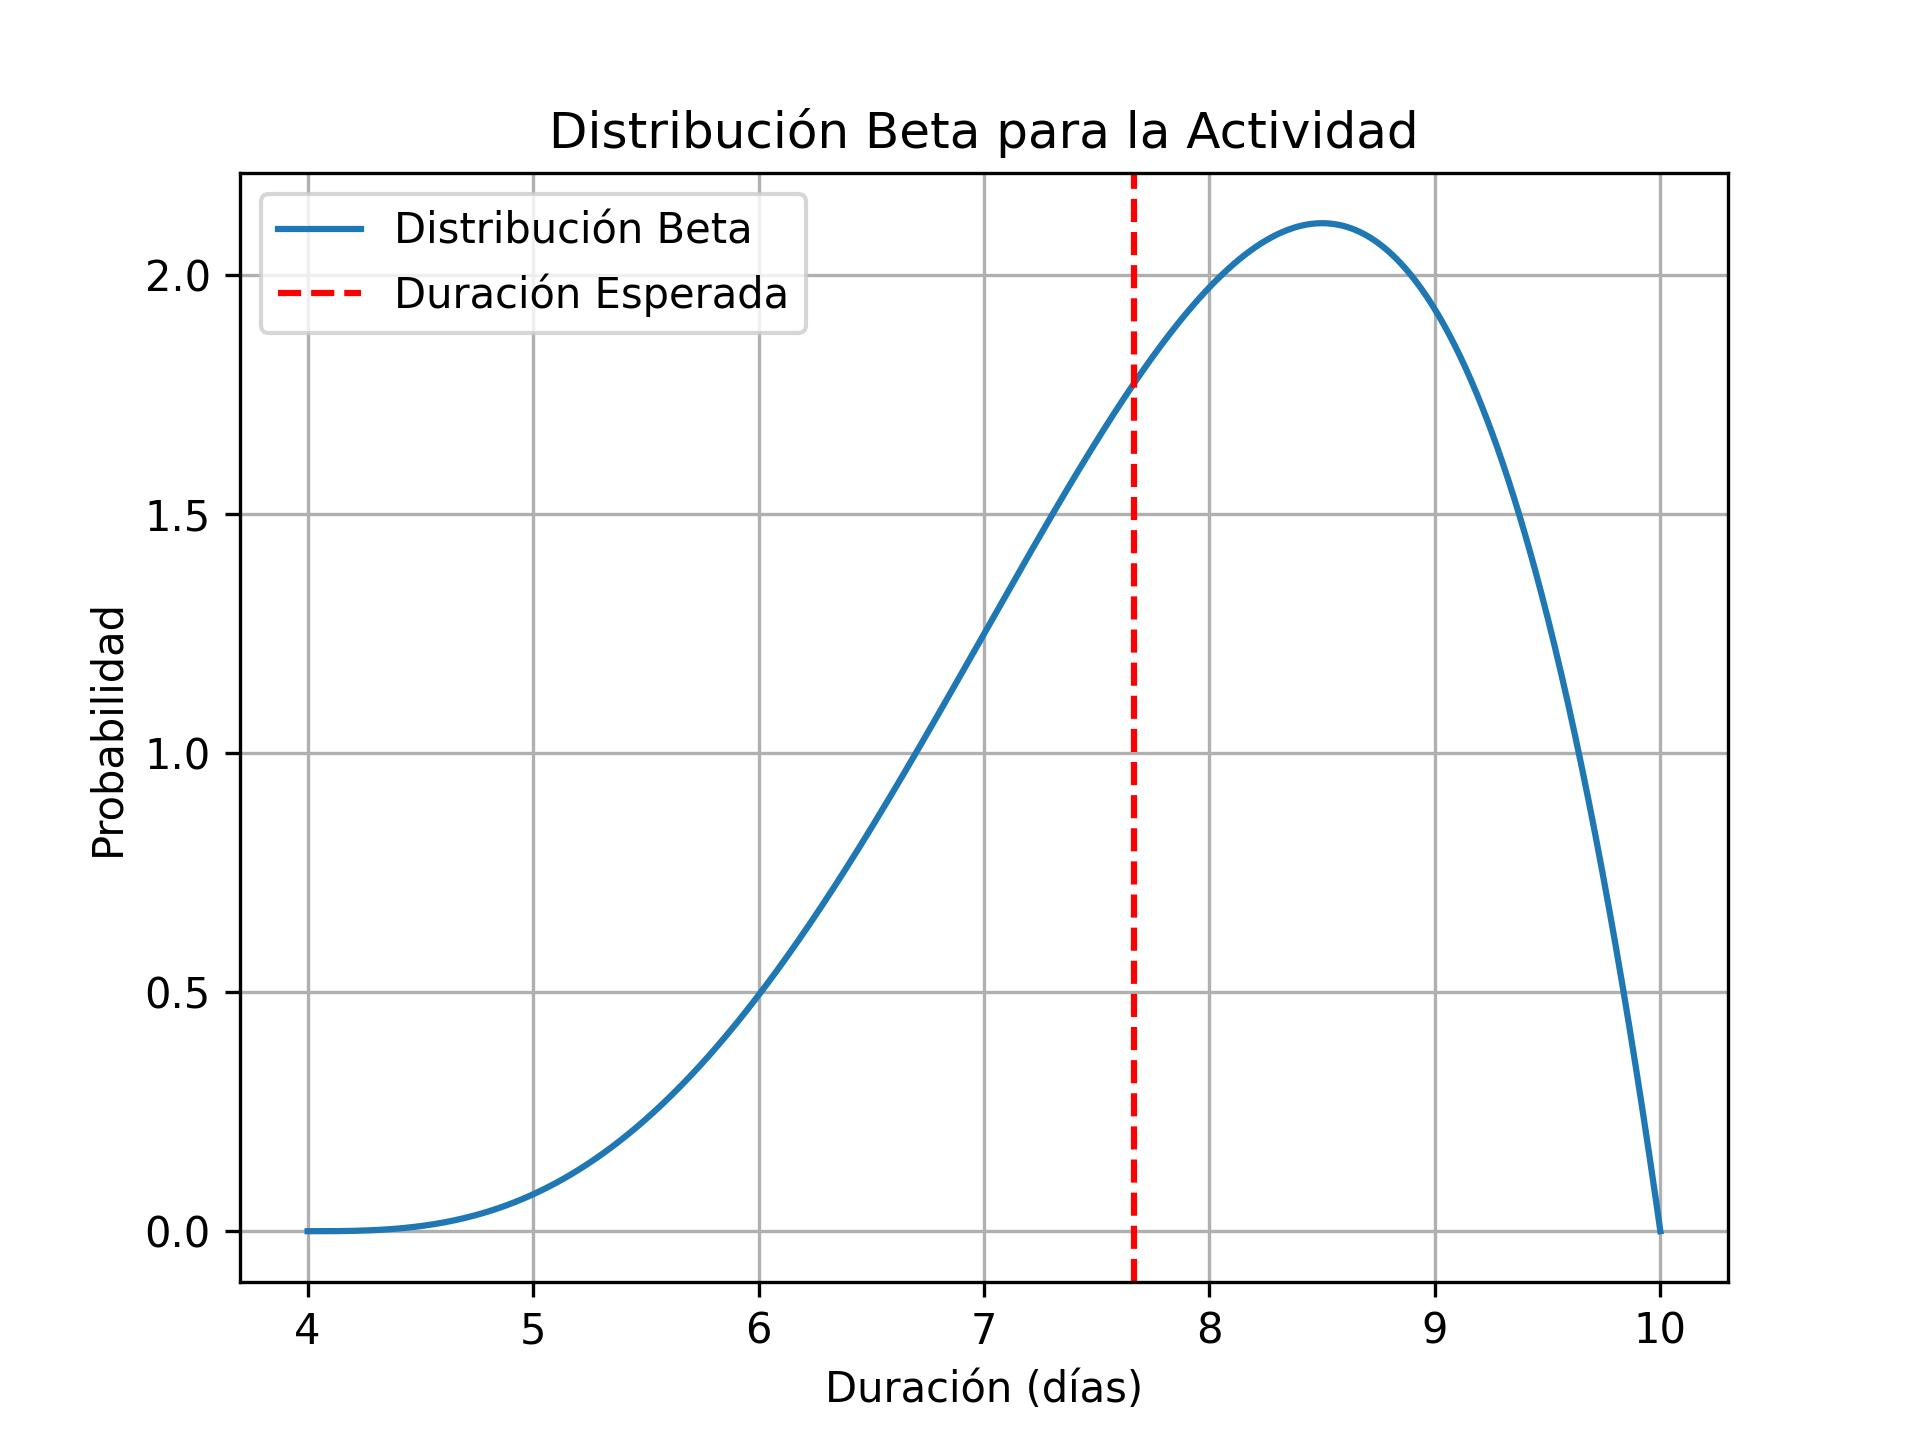
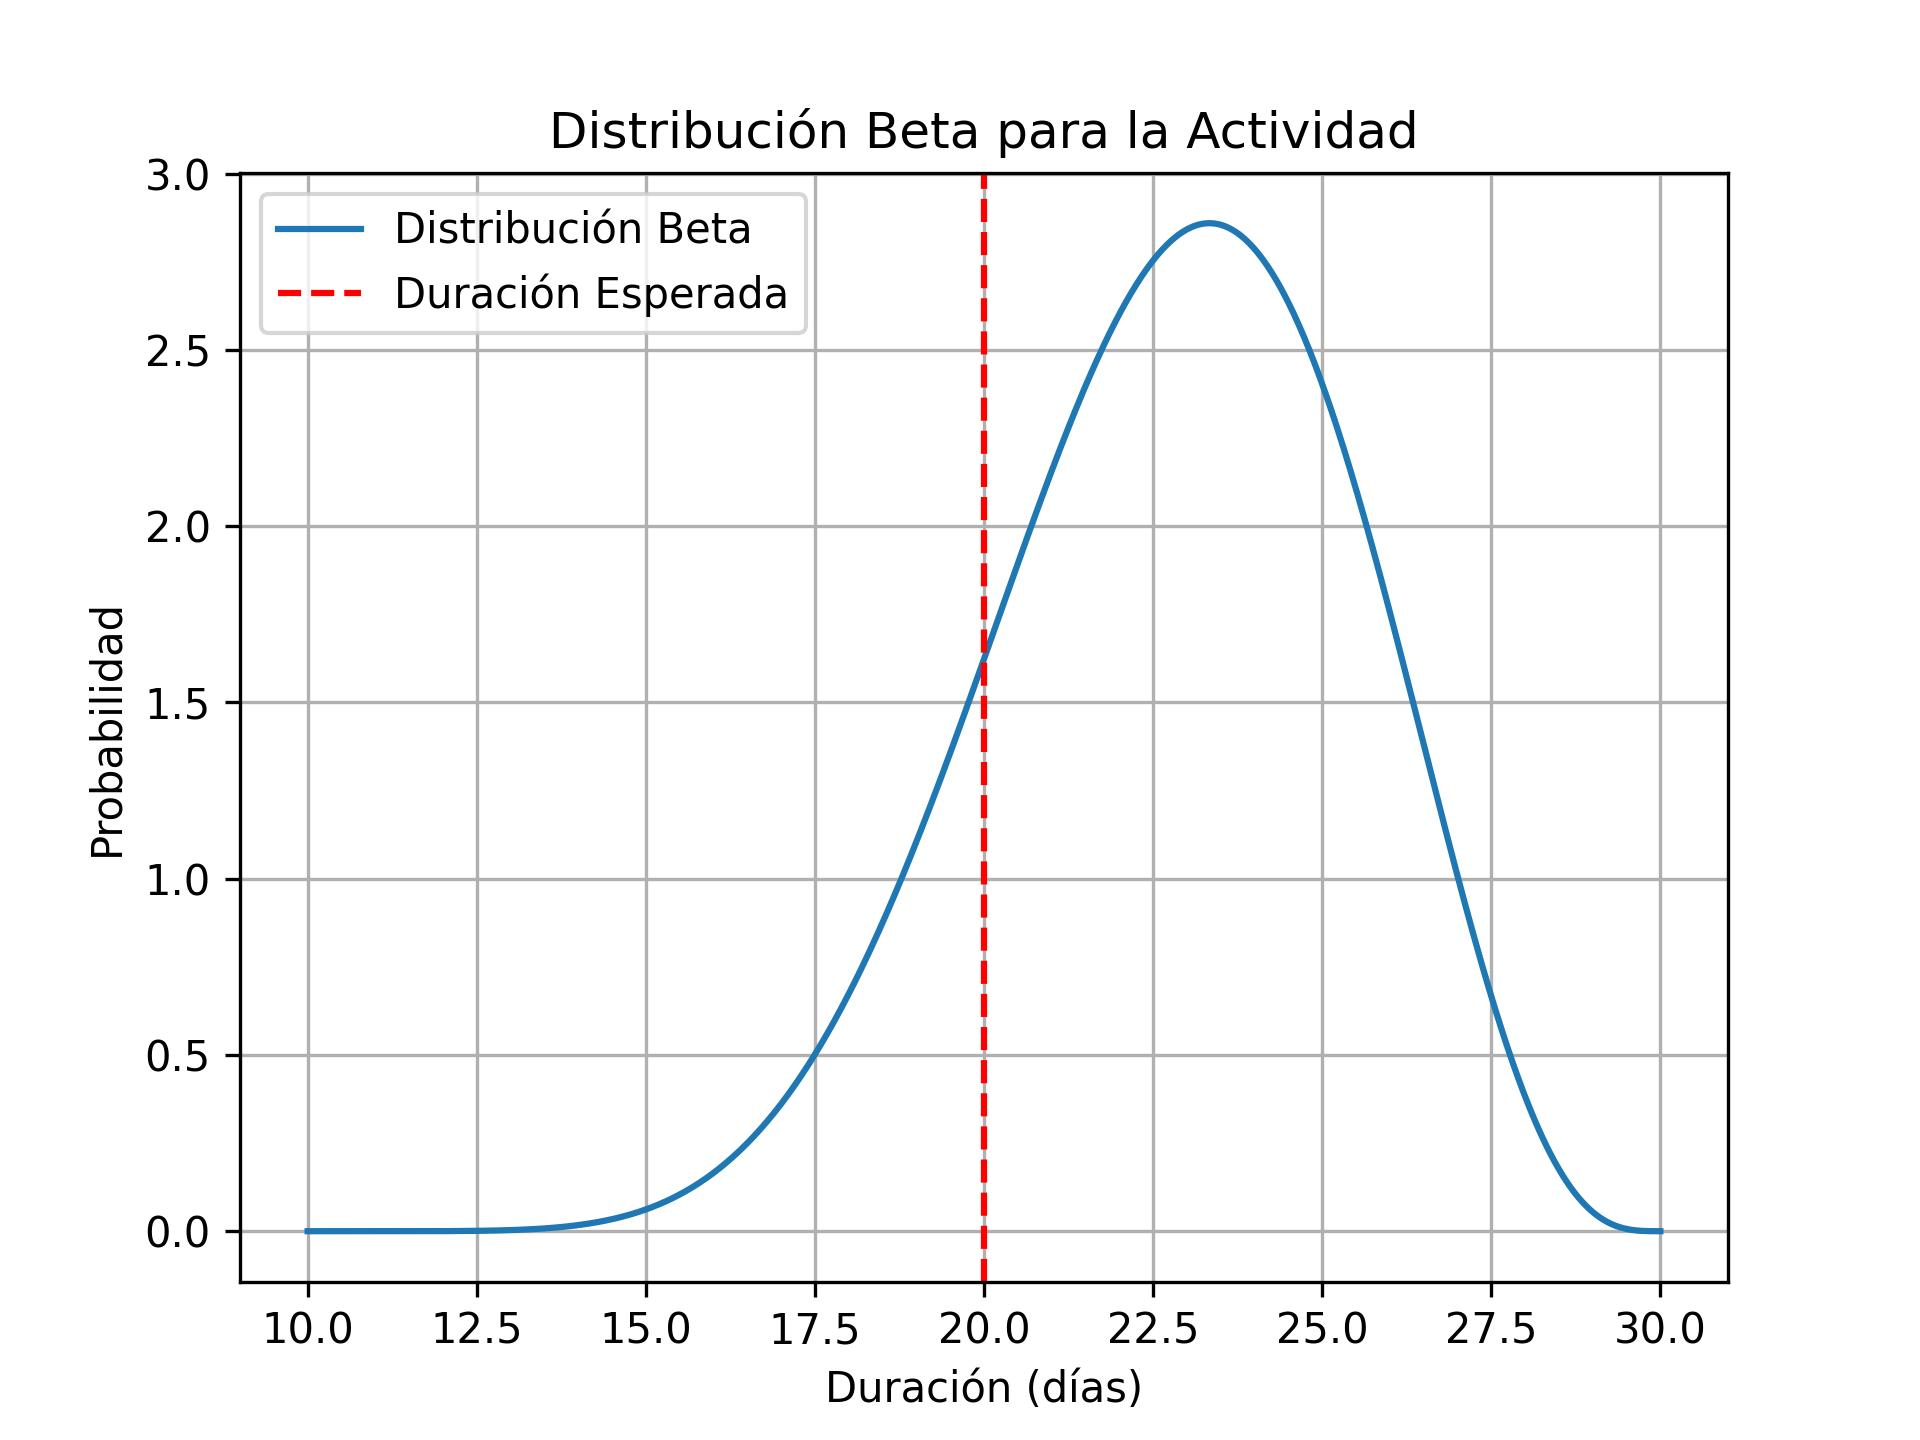
implementacion de logica

diff --git a/simulador/interfaz/gui_app.py b/simulador/interfaz/gui_app.py
@@ -2,7 +2,6 @@ import tkinter as tk
 from PIL import Image, ImageTk 
 from interfaz.grafico import generar_grafico_pert
 from tkinter import ttk
-#from proyecto import proyecto
 
 def abrir_ventana_ayuda():
     ventana_ayuda = tk.Toplevel()
@@ -108,14 +107,26 @@ class Frame(tk.Frame):
             self.boton_agregar_actividades.config(state=tk.NORMAL)
         else:
             self.boton_agregar_actividades.config(state=tk.DISABLED)
-   # proyecto()
 
-
+def almacenar_actividad(datoActividades, actividad, durOpt, durProb, durPes,root):
+        # Llamar a la función para generar el gráfico y obtener los valores
+        esperada, varianza, desvEstandar = generar_grafico_pert(durOpt, durProb, durPes)
+        datoActividades[actividad] = {
+        'duracion_optimista': durOpt,
+        'duracion_probable': durProb,
+        'duracion_pesimista': durPes,
+        'pert':esperada,
+        'varianza':varianza,
+        'desvEstandar':desvEstandar
+    }
+        ventana3(root,datoActividades,actividad)
+        
 def agregar_actividades(frame):
     frame.root.destroy()
     
-    #print(frame.nomProyecto.get())
-    #datoActividades = {}
+    datoActividades = {}
+    actividad=0
+    actividad+=1
 
     root = tk.Tk()
     root.title('Registro de Actividades')
@@ -155,74 +166,69 @@ def agregar_actividades(frame):
     button_frame2 = tk.Frame(root, bg="white")
     button_frame2.pack(side='top', pady=20)
 
-    boton_agregar = tk.Button(button_frame2, text='AGREGAR', bg='#4e4bc9', fg='white', font=("Helvetica", 14),command=lambda: ventana3(root))
+    boton_agregar = tk.Button(button_frame2, text='AGREGAR', bg='#4e4bc9', fg='white', font=("Helvetica", 14),
+                              #command=lambda: ventana3(root)
+                               command=lambda:almacenar_actividad(datoActividades, actividad, durOpt.get(), durPes.get(), durProb.get(),root))
     boton_agregar.grid(row=0, column=0, padx=20, pady=20, sticky='e')
 
     boton_finalizar = tk.Button(button_frame2, text='FINALIZAR', bg='#4e4bc9', fg='white', font=("Helvetica", 14),command=lambda: ventana4(root))
     boton_finalizar.grid(row=0, column=1, padx=20, pady=20, sticky='w')
 
-    #datoActividades[nombre_actividad] = datos_actividad
-  
-
 #----------------------------------------------------------------
-def ventana3(frame):
+def ventana3(frame,datoActividades,actividad):
     if frame is not None and frame.winfo_exists():
       frame.destroy()
 
     root = tk.Tk()
-    root.title('Duración PERT para la actividad #1')
+    root.title('Duración PERT para la actividad {actividad}')
     root.geometry('800x600')
     root.configure(bg='white')
 
-    #Variable de prueba para los valores 
-    duracion_optimista_valor = 5
+    durOpt = datoActividades[actividad]['duracion_optimista']
+    durPes = datoActividades[actividad]['duracion_pesimista']
+    durProb = datoActividades[actividad]['duracion_probable']
+    esperada = datoActividades[actividad]['pert']
+    varianza = datoActividades[actividad]['varianza']
+    desvEstandar = datoActividades[actividad]['desvEstandar']
 
     # Agregar etiquetas
-    etiquetaActividad = tk.Label(root, text="Nombre de la actividad: "+ str(duracion_optimista_valor), bg='white', fg='black', font=("Helvetica", 16), anchor='w', width=28)
+    etiquetaActividad = tk.Label(root, text="Nombre de la actividad: "+ str(actividad), bg='white', fg='black', font=("Helvetica", 16), anchor='w', width=28)
     etiquetaActividad.pack(pady=10, padx=20)
 
-    etiqueta1 = tk.Label(root, text="Duración optimista: "+ str(duracion_optimista_valor)+" días", bg='white', fg='black', font=("Helvetica", 14), anchor='w', width=30)
+    etiqueta1 = tk.Label(root, text="Duración optimista: "+ str(durOpt)+" días", bg='white', fg='black', font=("Helvetica", 14), anchor='w', width=30)
     etiqueta1.pack(pady=10, padx=20)
 
-    etiqueta2 = tk.Label(root, text="Duración más probable: "+ str(duracion_optimista_valor)+" días", bg='white', fg='black', font=("Helvetica", 14), anchor='w', width=30)
+    etiqueta2 = tk.Label(root, text="Duración más probable: "+ str(durProb)+" días", bg='white', fg='black', font=("Helvetica", 14), anchor='w', width=30)
     etiqueta2.pack(pady=10, padx=20)
 
-    etiqueta3 = tk.Label(root, text="Duración pesimista: "+ str(duracion_optimista_valor)+" días", bg='white', fg='black', font=("Helvetica", 14), anchor='w', width=30)
+    etiqueta3 = tk.Label(root, text="Duración pesimista: "+ str(durPes)+" días", bg='white', fg='black', font=("Helvetica", 14), anchor='w', width=30)
     etiqueta3.pack(pady=10, padx=20)
 
-    etiqueta4 = tk.Label(root, text="Desviacón estándar (σ): "+ str(duracion_optimista_valor), bg='white', fg='black', font=("Helvetica", 14), anchor='w', width=30)
+    etiqueta4 = tk.Label(root, text="Desviacón estándar (σ): "+ str(desvEstandar), bg='white', fg='black', font=("Helvetica", 14), anchor='w', width=30)
     etiqueta4.pack(pady=10, padx=20)
 
-    etiqueta5 = tk.Label(root, text="Duración esperada (PERT): "+ str(duracion_optimista_valor)+" días", bg='white', fg='black', font=("Helvetica", 14), anchor='w', width=30)
+    etiqueta5 = tk.Label(root, text="Duración esperada (PERT): "+ str(esperada)+" días", bg='white', fg='black', font=("Helvetica", 14), anchor='w', width=30)
     etiqueta5.pack(pady=10, padx=20)
 
     #Frame para el botón
     button_frame = tk.Frame(root, bg='white')
     button_frame.pack(side='top', pady=20)
 
-    #Botón en el frame
-    #boton_anterior = tk.Button(button_frame, text='Actividad anterior', bg='#4e4bc9', fg='white', font=("Helvetica", 14))
-    #boton_anterior.grid(row=0, column=0, padx=10, pady=0, sticky='w')
-
     # Botón en el frame, centrado
     boton_agregarActividad = tk.Button(button_frame, text='Agregar actividad', bg='#4e4bc9', fg='white', font=("Helvetica", 14))
     boton_agregarActividad.grid(row=0, column=2, padx=10, pady=0, sticky='ew') 
 
     self=root
-
+    
     # Botón en el frame
-    boton_duracionFinal = tk.Button(button_frame, text='Duracion final del proyecto', bg='#4e4bc9', fg='white', font=("Helvetica", 14), command=lambda: ventana4(self))
+    boton_duracionFinal = tk.Button(button_frame, text='Duracion final del proyecto', bg='#4e4bc9', fg='white', font=("Helvetica", 14), command=lambda: ventana4(self,datoActividades))
     boton_duracionFinal.grid(row=0, column=1, padx=0, pady=0, sticky='w')  
 
     barra_menu(root)
 
     # Cargar la imagen exportada y mostrarla en un widget de Tkinter
-
-   # Llamar a la función para generar el gráfico y guardar la imagen
-    generar_grafico_pert(4, 8, 10)
-
     try:
-        img = Image.open('C:\\Users\\ana.delcid\\Documents\\eliminar\\Proyecto_Teoria_2\\simulador\\img\\grafico_pert.jpeg')
+        img = Image.open('..\\simulador\\img\\grafico_pert.jpeg')
         img = img.resize((700, 550))
         img_tk = ImageTk.PhotoImage(img)
 
@@ -233,11 +239,10 @@ def ventana3(frame):
         print("Error al cargar la imagen:", e)
     
 
-
 #--------------------------
-def ventana4(frame):
+def ventana4(frame,datoActividades):
 
-    # Cerrar la ventana3 si existe y está abierta
+    # Cerrar ventana anterior si existe y está abierta
     if frame is not None and frame.winfo_exists():
       frame.destroy()
 
@@ -246,7 +251,6 @@ def ventana4(frame):
     root.title('Duración final del proyecto')
     root.geometry('800x600')
     root.configure(bg='white')
-
 
     barra_menu(root)
 
@@ -265,8 +269,9 @@ def ventana4(frame):
     tabla.heading("Duración", text="Duración")
 
     # Insertar datos desde la lista de diccionarios
-    for item in lista_actividades:
-        tabla.insert("", "end", values=(item["actividad"], item["duracion"]))
+    for actividad, datos in datoActividades.items():
+        pert_valor = datos['pert']
+        tabla.insert("", "end", values=(actividad, pert_valor))
 
     # Agregar la tabla a la ventana
     tabla.pack(pady=20, padx=20)
@@ -311,7 +316,4 @@ def ventana4(frame):
     #Botón en el frame
     boton_finalizar = tk.Button(button_frame, text='Finalizar', bg='#4e4bc9', fg='white', font=("Helvetica", 14), command=root.destroy)
     boton_finalizar.grid(row=0, column=1, padx=20, pady=20, sticky='w')
-
-
-
 #----------------------------------------------

diff --git a/simulador/interfaz/grafico.py b/simulador/interfaz/grafico.py
@@ -2,26 +2,28 @@ import numpy as np
 import matplotlib.pyplot as plt
 from scipy.stats import beta as beta_dist
 
-def generar_grafico_pert(O, M, P):
+def generar_grafico_pert(durOpt, durProb, durPes):
     # Función para calcular la duración esperada según el método PERT
-    def calculate_pert_estimate(O, M, P):
-        return (O + 4 * M + P) / 6
+    def calculate_pert_estimate(durOpt, durProb, durPes):
+        return (durOpt + 4 * durProb + durPes) / 6
 
     # Calcular la duración esperada usando el método PERT
-    esperada = calculate_pert_estimate(O, M, P)
+    esperada = calculate_pert_estimate(durOpt, durProb, durPes)
+    varianza = ((durPes - durOpt) / 6) ** 2
+    desvEstandar = np.sqrt(varianza)
 
     # Calcular los parámetros 'alpha' y 'beta' para la distribución Beta
-    alpha = 1 + (4 * M - O - P) / 6
-    beta = 1 + (P - O) / 6
+    alpha = 1 + (4 * durProb - durOpt - durPes) / 6
+    beta = 1 + (durPes - durOpt) / 6
 
     # Crear una distribución Beta con los parámetros calculados
     dist = beta_dist(alpha, beta)
 
     # Generar valores de tiempo para graficar la distribución (en días)
-    x = np.linspace(O, P, 1000)
+    x = np.linspace(durOpt, durPes, 1000)
 
     # Calcular los valores de probabilidad correspondientes a los días
-    y = dist.pdf((x - O) / (P - O))
+    y = dist.pdf((x - durOpt) / (durPes - durOpt))
 
     # Graficar la distribución Beta y la línea de la duración esperada
     plt.plot(x, y, label='Distribución Beta')  # Gráfica de la distribución Beta
@@ -37,4 +39,4 @@ def generar_grafico_pert(O, M, P):
 
     # Mostrar la gráfica en una ventana (opcional)
     # plt.show()
-
+    return (esperada,varianza,desvEstandar)
